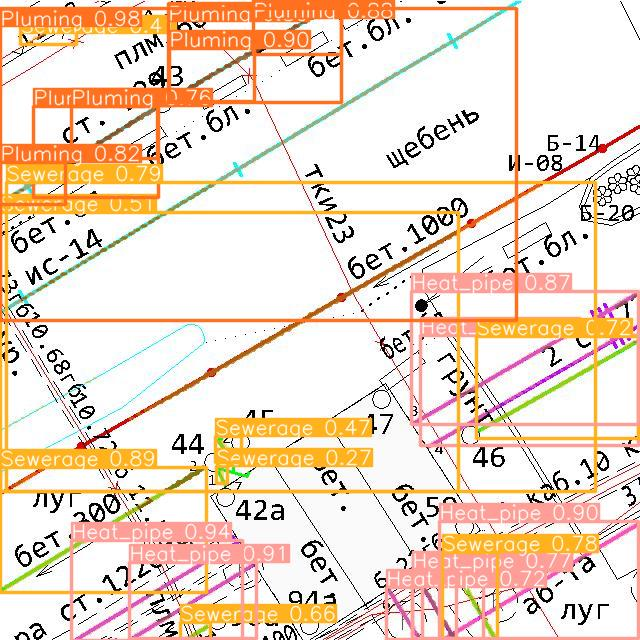
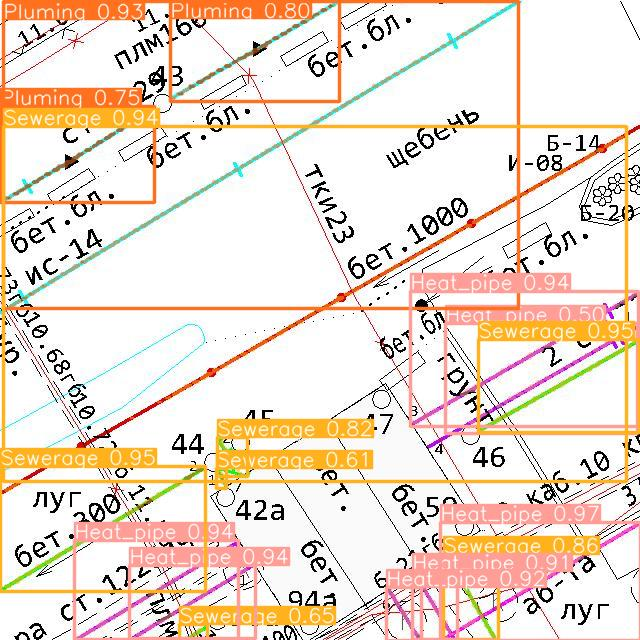
Интерпритация результатов работы модели

diff --git a/04_segment/01_Ultralytics/segment.py b/04_segment/01_Ultralytics/segment.py
@@ -1,11 +1,14 @@
+import geopandas as gpd
+import numpy as np
+from shapely.geometry import Point, Polygon, LineString
 from ultralytics import YOLO
 from PIL import Image
 
 # Load a model
-model = YOLO('C:\\Repos\\Ayrapetov\\07_AI_project\\04_segment\\01_Ultralytics\\runs\\segment\\train\\weights\\best.pt')  # load a pretrained model
+model = YOLO('C:\\Repos\\Ayrapetov\\07_AI_project\\04_segment\\01_Ultralytics\\runs\\segment\\train12\\weights\\best.pt')  # load a pretrained model
 
 # Define path to directory containing images and videos for inference
-source = '../../02_mark/images/План 1_0_0.jpg'
+source = '../../02_mark/images/План 1_1_1.jpg'
 
 # Run inference on the source
 results = model(source, stream=True)  # generator of Results objects
@@ -16,5 +19,13 @@ for r in results:
     image_name = r.path.split("\\")[-1:][0]
     im.save(f'result/{image_name}')
     class_id = r.boxes.cls.cpu().numpy()
-    print(class_id)
-    print(r.masks[1])
+    pol = (r[1].masks.xy)
+    box = (r.boxes.xyxy.cpu().numpy())
+
+x = []
+new_pol = LineString(pol[0])
+for i in pol[0]:
+    x.append((i[0], i[1]))
+
+
+print(np.asarray(new_pol.coords))

diff --git a/04_segment/01_Ultralytics/train_seg.py b/04_segment/01_Ultralytics/train_seg.py
@@ -15,7 +15,7 @@ def main():
     # название текущей сессии
     task = Task.init(
         project_name="AutoCAD_segment",
-        task_name="pipe_4cls_pipe _only_balance.v1"
+        task_name="Pipe_4cls_pixel.v6"
         )
 
     # ClearML; Определение модели на которой будет происходить обучение
@@ -24,11 +24,11 @@ def main():
 
     model = YOLO('yolov8l-seg.pt')
 
-    args = dict(data='datasets/pipe_4cls_pipe _only_balance.v1/data.yaml',
-                epochs=100,
+    args = dict(data='datasets/Pipe_4cls_pixel.v6/data.yaml',
+                epochs=250,
                 imgsz=640,
                 freeze=8,
-                patience=20,
+                patience=30,
                 )
     task.connect(args)
 

diff --git a/04_segment/01_Ultralytics/skelet_scikit.py b/04_segment/01_Ultralytics/skelet_scikit.py
@@ -1,0 +1,22 @@
+import skgeom as sg
+from skgeom.draw import draw
+
+import matplotlib.pyplot as plt
+
+def draw_skeleton(polygon, skeleton, show_time=False):
+    draw(polygon)
+
+    for h in skeleton.halfedges:
+        if h.is_bisector:
+            p1 = h.vertex.point
+            p2 = h.opposite.vertex.point
+            plt.plot([p1.x(), p2.x()], [p1.y(), p2.y()], 'r-', lw=2)
+
+    if show_time:
+        for v in skeleton.vertices:
+            plt.gcf().gca().add_artist(plt.Circle(
+                (v.point.x(), v.point.y()),
+                v.time, color='blue', fill=False))
+poly = sg.random_polygon(seed=1)
+skel = sg.skeleton.create_interior_straight_skeleton(poly)
+draw_skeleton(poly, skel)

diff --git a/04_segment/01_Ultralytics/geo_pandas.py b/04_segment/01_Ultralytics/geo_pandas.py
@@ -1,0 +1,5 @@
+import geopandas
+from shapely.geometry import Point, Polygon
+
+s = geopandas.GeoSeries([Polygon([(0, 0), (1, 1), (2, 2), (3, 3)])])
+print(s.centroid)
